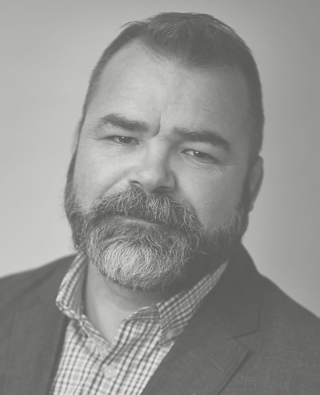
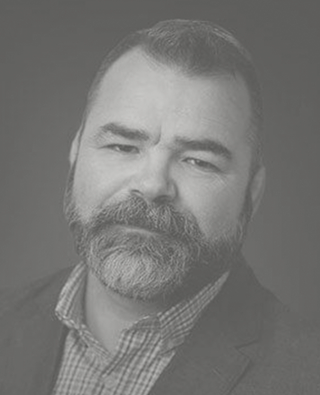
changed jamie's pic and talk title for Lynne & Chris

diff --git a/src/components/speakers.js b/src/components/speakers.js
@@ -232,7 +232,7 @@ class Speakers extends Component {
                 Talk
               </p>
               <p className='keynoteDescription'>
-                She Said, He Said: How Product & Marketing Can See Eye to Eye on the Customer Journey
+                The Right Stuff: What It Takes to Align Product and Marketing
               </p>
             </div>
           </span>
